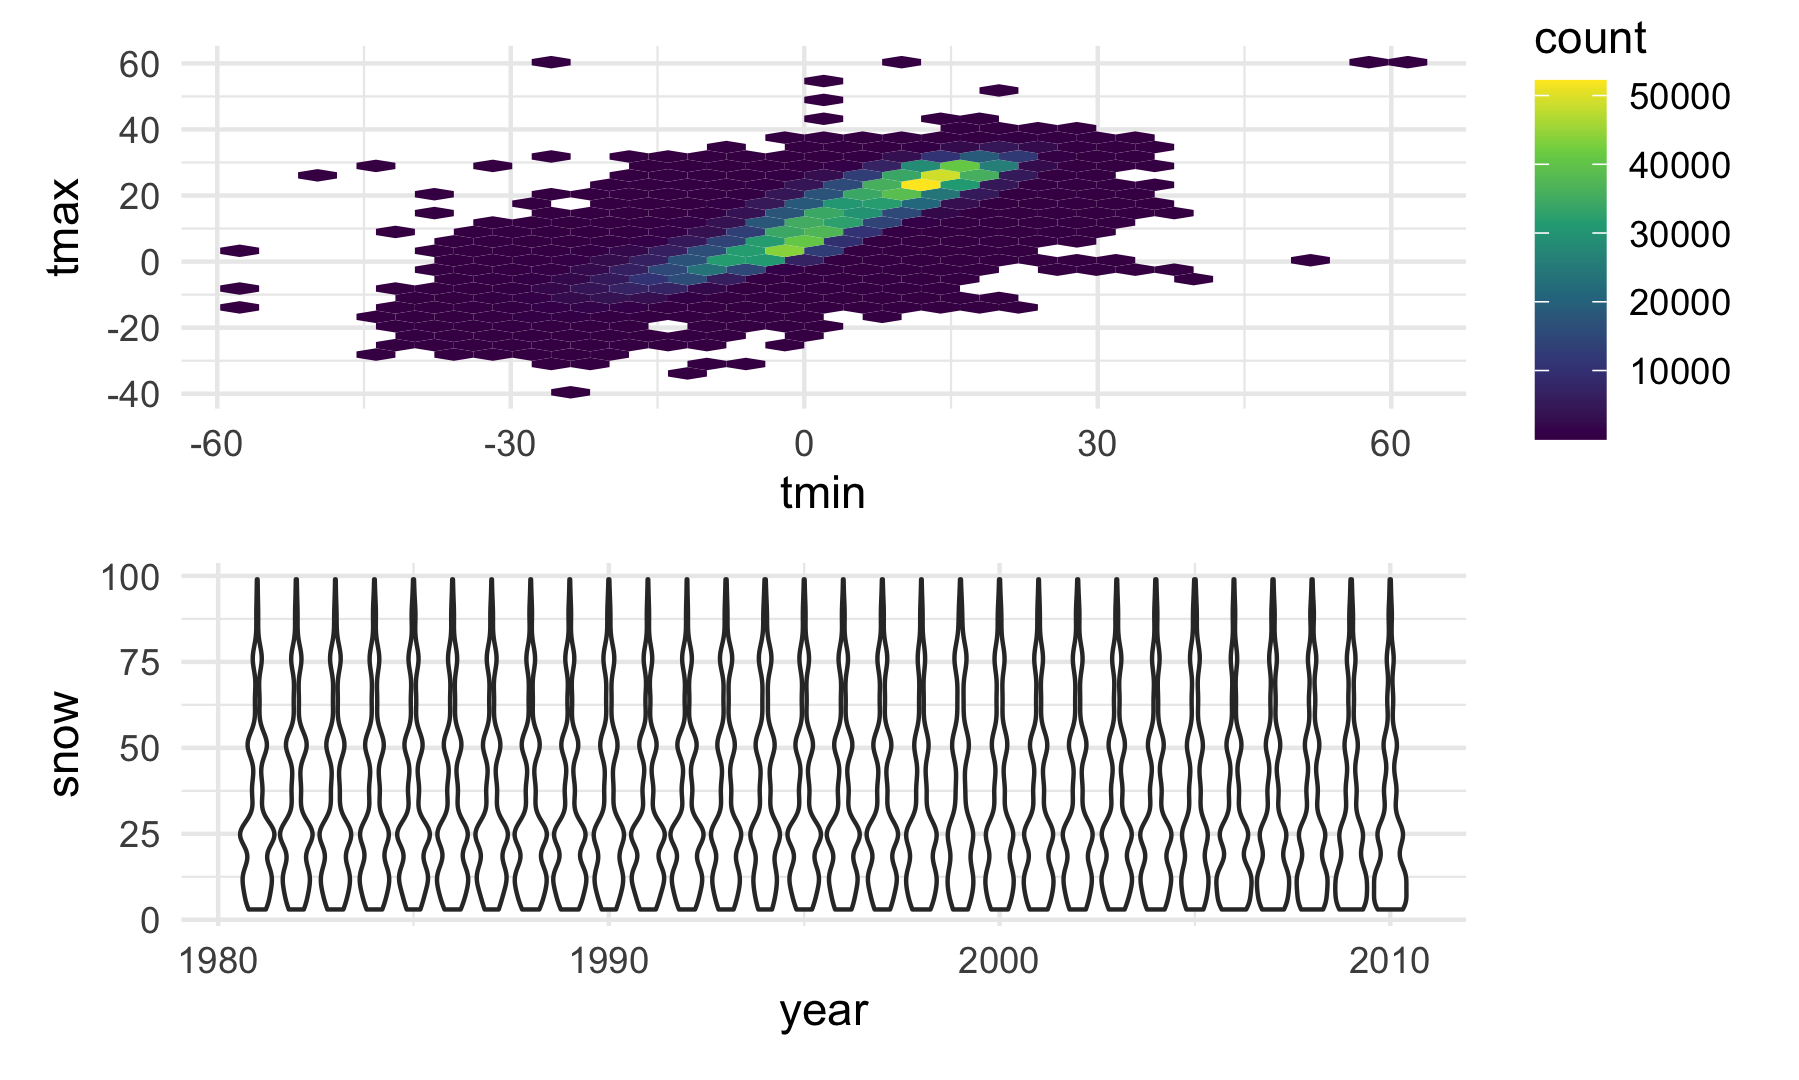
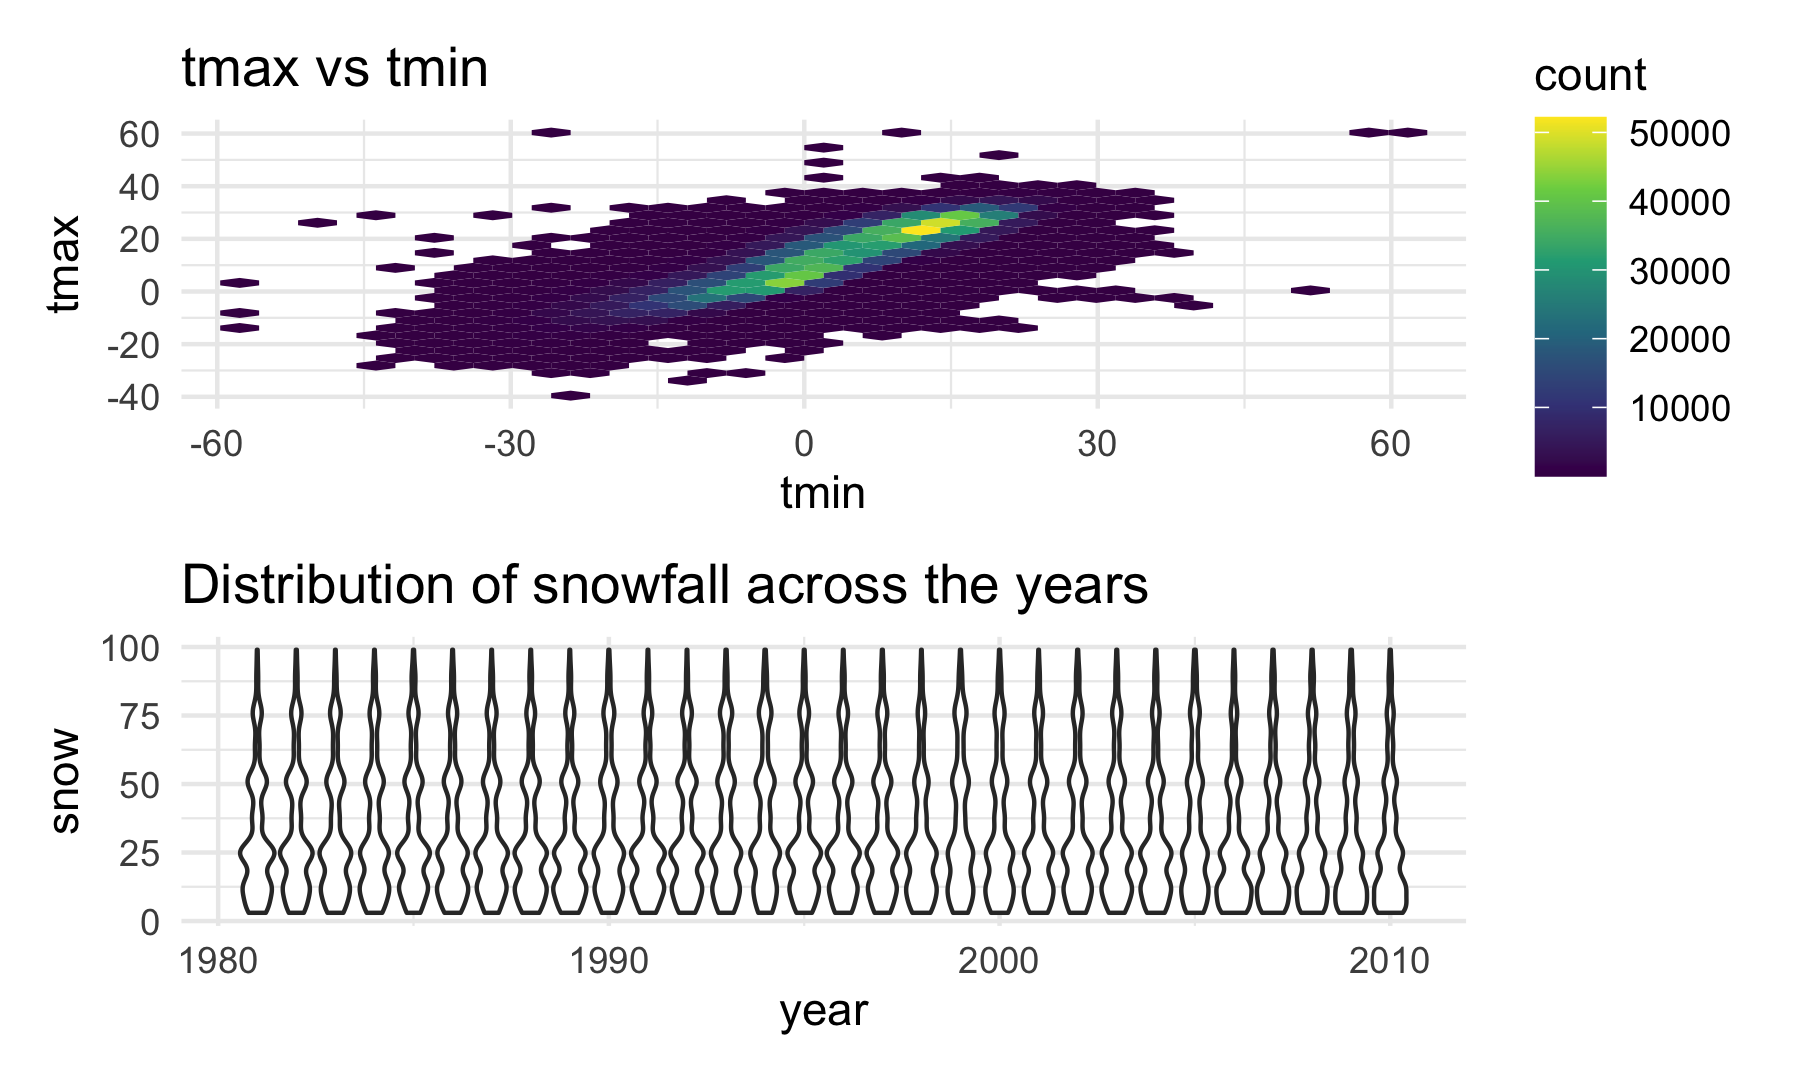
Final touch done!!

diff --git a/p8105_hw3_gb2685.md b/p8105_hw3_gb2685.md
@@ -395,16 +395,21 @@ showing the distribution of snowfall values greater than 0 and less than
 ``` r
 plot1 = ggplot(ny_noaa_clean, aes(x=tmin,y=tmax) ) + 
         geom_hex() +
-        theme(legend.position = "right")
+        theme(legend.position = "right") +
+        labs(
+          title = "tmax vs tmin"
+  )
+  
 
 plot2 = ny_noaa_clean %>%
         filter(snow>0, snow<100) %>%
         ggplot( aes(x = year, y = snow)) + 
-        geom_violin(aes(group = year)) 
+        geom_violin(aes(group = year)) +
+        labs(
+          title = "Distribution of snowfall across the years"
+  )
 
-patch = plot1 / plot2
-
-patch
+plot1 / plot2
 ```
 
     ## Warning: Removed 1136276 rows containing non-finite values (stat_binhex).
